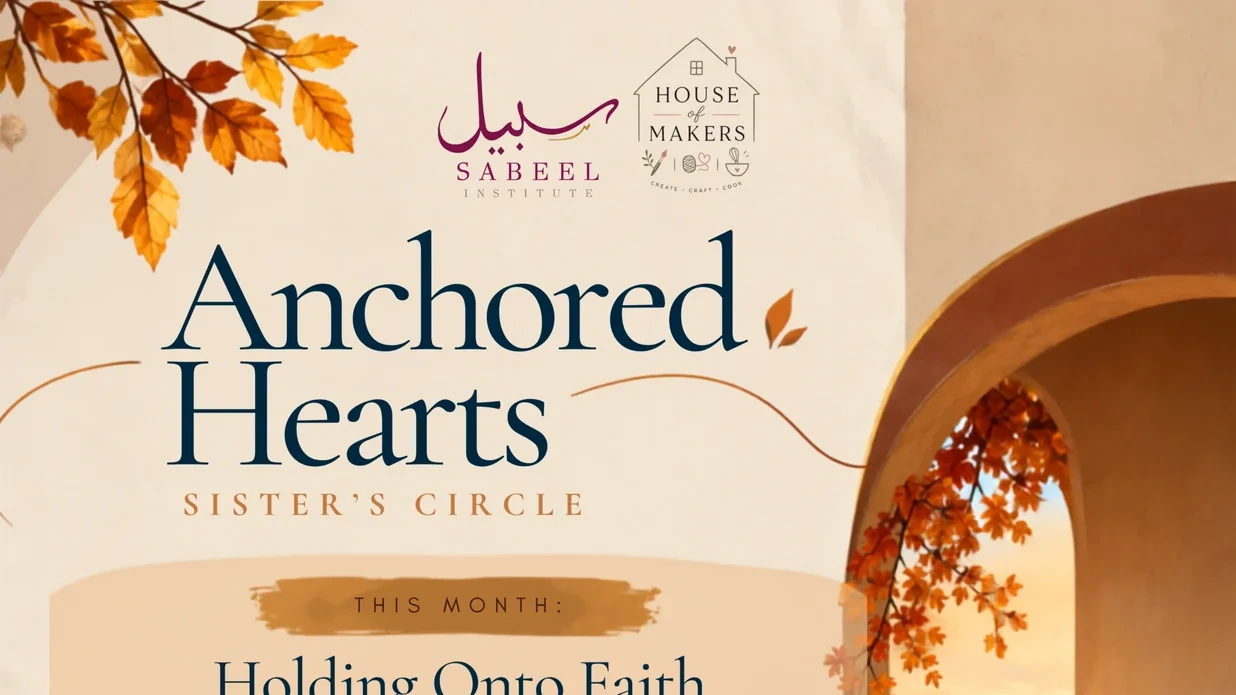
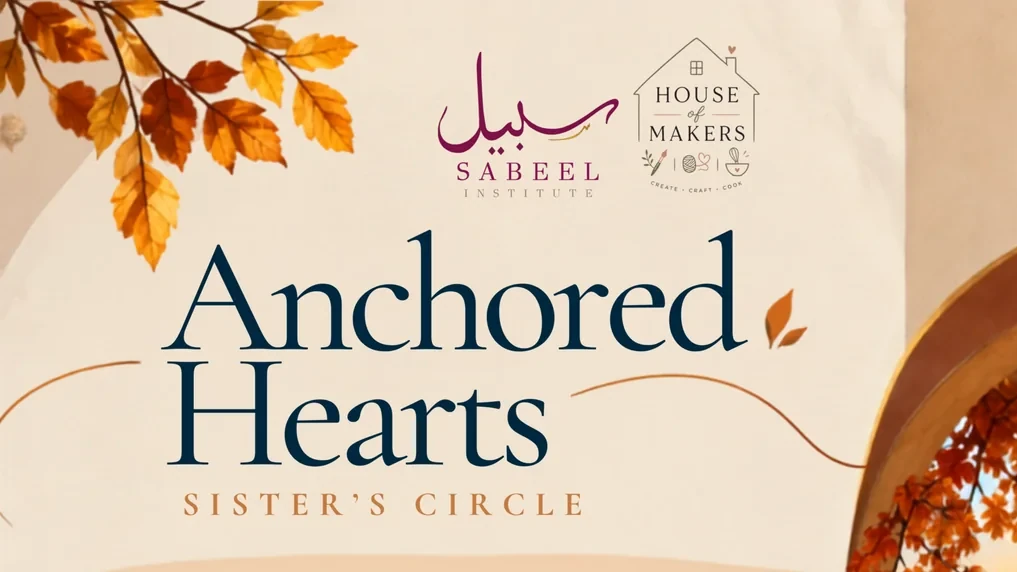
refactor: make the program image a 16:9 standard
The program image (image) is 16:9 everywhere the site shows it: on
program cards, at the top of program pages (a 4:3 frame before), and
in link previews. The build stops on a program image that is not
16:9, and AGENTS.md documents the two standard images, the flyer and
the program image, with their sizes.

On cards the image is decorative, since the title names it, and it
zooms on hover only when reduced motion is off. Four of the flyer
crops cut through text, so they are re-cut to end between lines, and
each image's alt text now says what its artwork reads.

diff --git a/src/content.config.ts b/src/content.config.ts
@@ -80,10 +80,13 @@ const programs = defineCollection({
       expect: z.string().min(1).optional(),
       /** Attendance, refunds, recording, accessibility, safeguarding. */
       policies: z.string().min(1).optional(),
-      /** A photograph for the top of the page (not the flyer). */
+      /**
+       * The program image: a 16:9 photograph or artwork (1920 × 1080 px), shown
+       * on its card, at the top of its page, and in link previews.
+       */
       image: image().optional(),
       imageAlt: z.string().min(1).optional(),
-      /** The original flyer, shown lower on the page. */
+      /** The original flyer, US Letter portrait (2550 × 3300 px), shown lower on the page. */
       flyer: image().optional(),
       /**
        * Bespoke page path (e.g. "/hikam-foundations/"). When set, listings link

diff --git a/src/lib/content.ts b/src/lib/content.ts
@@ -95,6 +95,19 @@ export function assertBespokePages(programs: Program[]): void {
   }
 }
 
+/** Program images are 16:9 (see Program images in AGENTS.md). */
+export function assertProgramImages(programs: Program[]): void {
+  for (const p of programs) {
+    const img = p.data.image;
+    if (img && Math.abs(img.width / img.height - 16 / 9) > 0.02) {
+      throw new Error(
+        `Program "${p.id}" has an image of ${img.width} × ${img.height} px, which is not 16:9. ` +
+          'Use a 16:9 image, for example 1920 × 1080 px (see Program images in AGENTS.md).',
+      );
+    }
+  }
+}
+
 /* ---------- Team ---------- */
 
 export async function getTeamGroup(group: TeamMember['data']['group']): Promise<TeamMember[]> {

diff --git a/AGENTS.md b/AGENTS.md
@@ -184,20 +184,38 @@ Required for `open` and `ongoing`: `title`, `summary`, `area`, `date`,
 | `instructors` | Team file names and/or inline guests `{ name, role, highlights }` | `sameera-shah` |
 | `expect` | Teaching format, activities, participation | |
 | `policies` | Attendance, refunds, recording, safeguarding | |
-| `image`, `imageAlt` | Real photo for the top of the page (not the flyer); alt text required with it | `./photo.jpg` |
-| `flyer` | Original flyer, shown lower on the page | `./flyer.webp` |
+| `image`, `imageAlt` | The program image, 16:9 (see Program images); alt text required with it | `./image.jpg` |
+| `flyer` | Original flyer, US Letter portrait (see Program images) | `./flyer.webp` |
 | `page` | Bespoke page path | `/hikam-foundations/` |
 
 The Markdown body after the front matter is “Program details”. Use `##` and
 `###` headings (never `#`), `-` bullets, `**bold**`, and site-relative links
 that end in `/` (for example `/teachers-and-team/sameera-shah/`).
 
+### Program images
+
+A program has up to two images, each in one standard size, so the site uses
+them as they are:
+
+| Image | Size | Where the site shows it |
+|---|---|---|
+| Flyer (`flyer`) | US Letter portrait: 8.5 × 11 in, 2550 × 3300 px | Whole, lower on the program page, in Past Programs, and enlarged in the flyer viewer |
+| Program image (`image`) | 16:9 landscape: 1920 × 1080 px | On the program's card, at the top of its page, and in link previews, which trim it slightly to 1.91:1 |
+
+The program image is a photograph or artwork, not a copy of the flyer: at most
+a large title, no small text (dates, times, and fees are on the page and
+change), and nothing important within 5% of an edge. The build stops if a
+program image is not 16:9. Until a program has its own, its image can be a
+16:9 crop of its flyer's title area, as the current programs use. Designers'
+guidance is the `sabeel-flyers` skill in
+[Sabeel-Institute/brand](https://github.com/Sabeel-Institute/brand).
+
 ### Recipes
 
 **Add a program.** Copy the most similar current program folder, rename it,
-replace `flyer.webp` (and add `photo.jpg` with `image`/`imageAlt` if there is a
-real photo), edit `index.md`, run `npm run build`, and check the program page,
-the Programs page, and the home page in `npm run dev`.
+replace `flyer.webp` and `image.jpg` (see Program images) and their fields,
+edit `index.md`, run `npm run build`, and check the program page, the Programs
+page, and the home page in `npm run dev`.
 
 **Retire a program.** Set `status: completed`.
 

diff --git a/src/content/programs/mommy-burnout/index.md b/src/content/programs/mommy-burnout/index.md
@@ -30,7 +30,7 @@ instructors:
     role: Guest speaker · Marriage & relationship coach
 expect: Seven weekly sessions combining Qur’anic guidance, Prophetic wisdom, and practical tools from psychology, in a compassionate space to slow down and reflect. Join in person at Masjid Istiqlal or live on Zoom.
 image: ./image.webp
-imageAlt: Mommy Burnout course banner
+imageAlt: "Title artwork: Mommy Burnout, a course on mental and spiritual health"
 flyer: ./flyer.webp
 ---
 

diff --git a/src/content/programs/anchored-hearts/index.md b/src/content/programs/anchored-hearts/index.md
@@ -21,7 +21,7 @@ instructors:
     role: House of Makers · Creative activity
 expect: An optional creative activity, then the halaqa. This month, make your own pearl bracelet and earrings with House of Makers, with snacks and favors — a special Sabeel rate of $15 (regularly $25).
 image: ./image.webp
-imageAlt: Anchored Hearts Sister’s Circle banner
+imageAlt: "Title artwork: Anchored Hearts, Sister’s Circle"
 flyer: ./flyer.webp
 ---
 

diff --git a/src/content/programs/quran-immersion-fall-2026/index.md b/src/content/programs/quran-immersion-fall-2026/index.md
@@ -19,7 +19,7 @@ outcomes:
   - A foundation for the Hikam Foundations program
 expect: One morning a week in three parts — Arabic grammar, tafsir, and tajweed practice on the same surah, so you apply what you learn immediately.
 image: ./image.webp
-imageAlt: Quran Immersion Fall Semester banner
+imageAlt: "Title artwork: Quran Immersion, Fall Semester"
 flyer: ./flyer.webp
 ---
 

diff --git a/src/content/programs/raising-with-purpose/index.md b/src/content/programs/raising-with-purpose/index.md
@@ -20,7 +20,7 @@ instructors:
     role: Conversation guest
 expect: "Each session has three parts: Nourish — a halaqah; Connect — a conversation with guests; Create — a mindful reflection activity."
 image: ./image.webp
-imageAlt: Raising with Purpose support circle banner
+imageAlt: "Title artwork: Raising with Purpose"
 flyer: ./flyer.webp
 ---
 

diff --git a/src/content/programs/teen-sundays-surah-yusuf/index.md b/src/content/programs/teen-sundays-surah-yusuf/index.md
@@ -22,7 +22,7 @@ instructors:
   - sameera-shah
 expect: Meaningful discussion, reflection, snacks, and friendships — twice a month, on-site at Masjid Istiqlal.
 image: ./image.webp
-imageAlt: Teen Sundays Surah Yusuf banner
+imageAlt: "Title artwork: The Qur’an hits different when you see yourself in it"
 flyer: ./flyer.webp
 ---
 

diff --git a/src/content/programs/journey-to-excellence/index.md b/src/content/programs/journey-to-excellence/index.md
@@ -17,7 +17,7 @@ outcomes:
   - How these qualities help us grow in faith and character
   - What ihsān means for our relationship with Allah and the way we live
 image: ./image.webp
-imageAlt: Journey to Excellence course banner
+imageAlt: "Title artwork: Journey to Excellence"
 flyer: ./flyer.webp
 ---
 

diff --git a/src/content/programs/monthly-quran-room/index.md b/src/content/programs/monthly-quran-room/index.md
@@ -13,7 +13,7 @@ duration: 30 minutes, monthly
 fee: Free
 registerUrl: https://forms.gle/mMNGQ3e832SsFQTQ6
 image: ./image.webp
-imageAlt: Monthly Qur’an Room banner
+imageAlt: "Title artwork: Monthly Qur’an Room"
 flyer: ./flyer.webp
 ---
 
